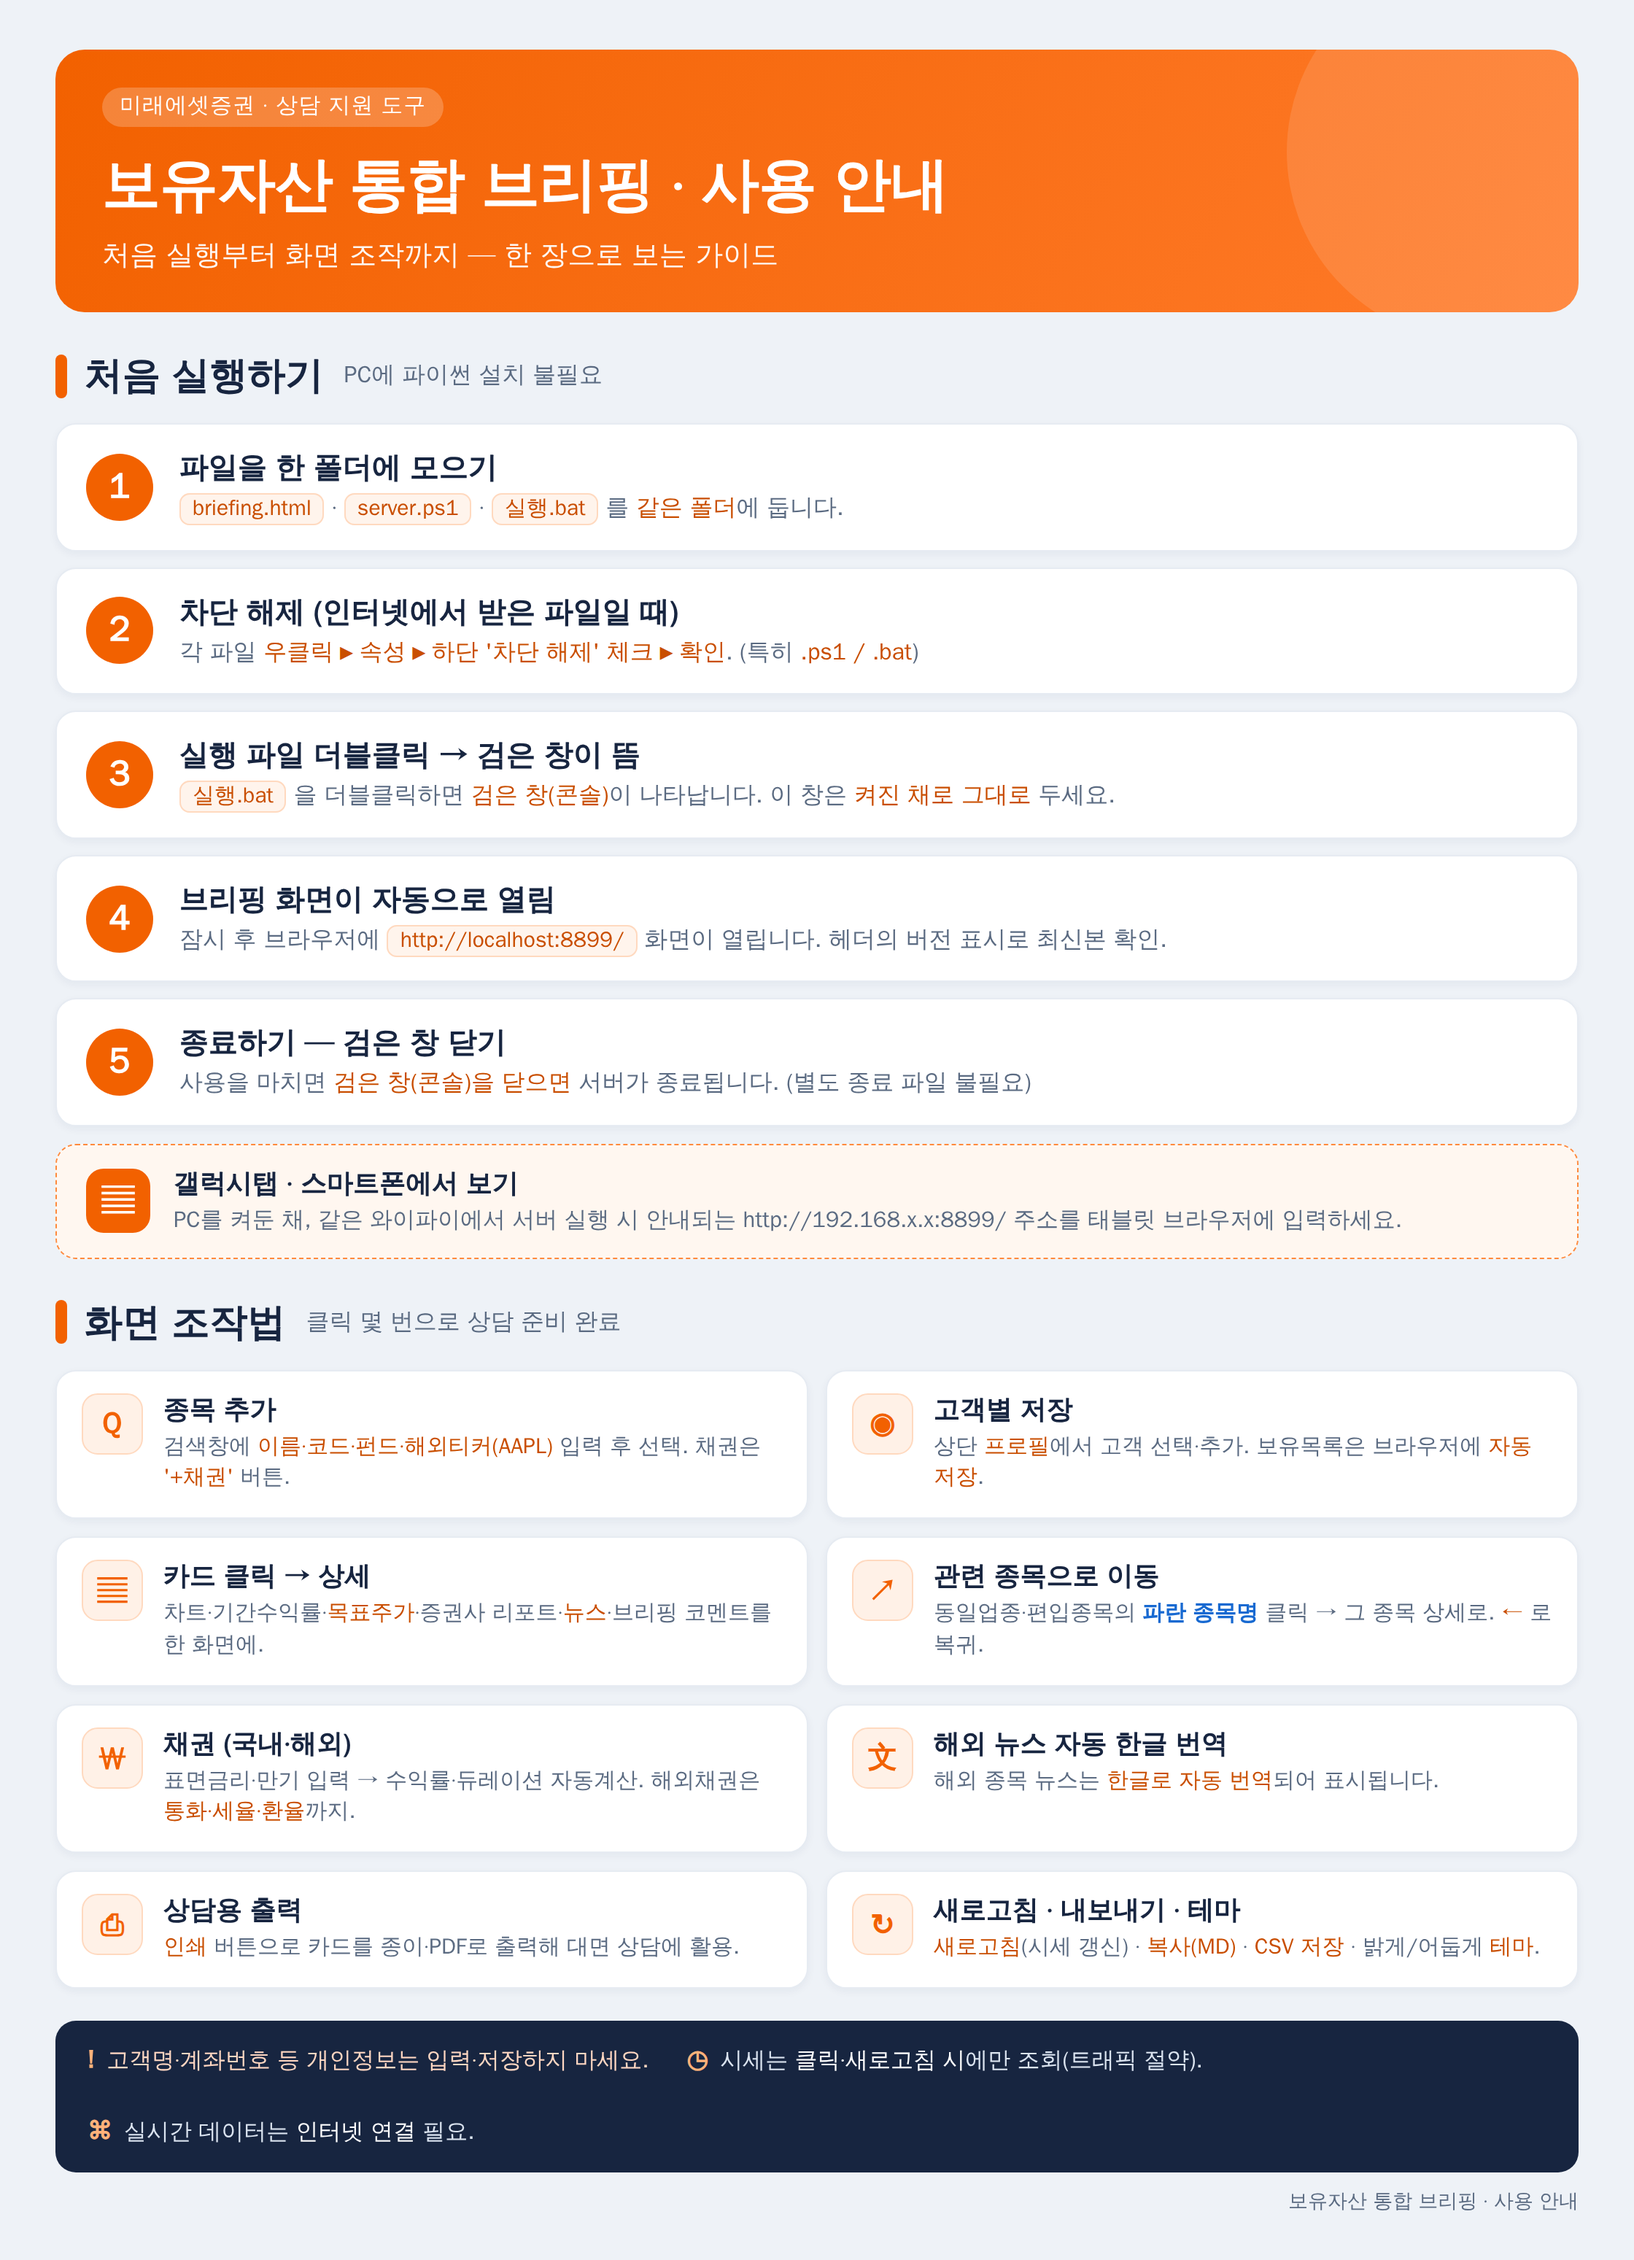
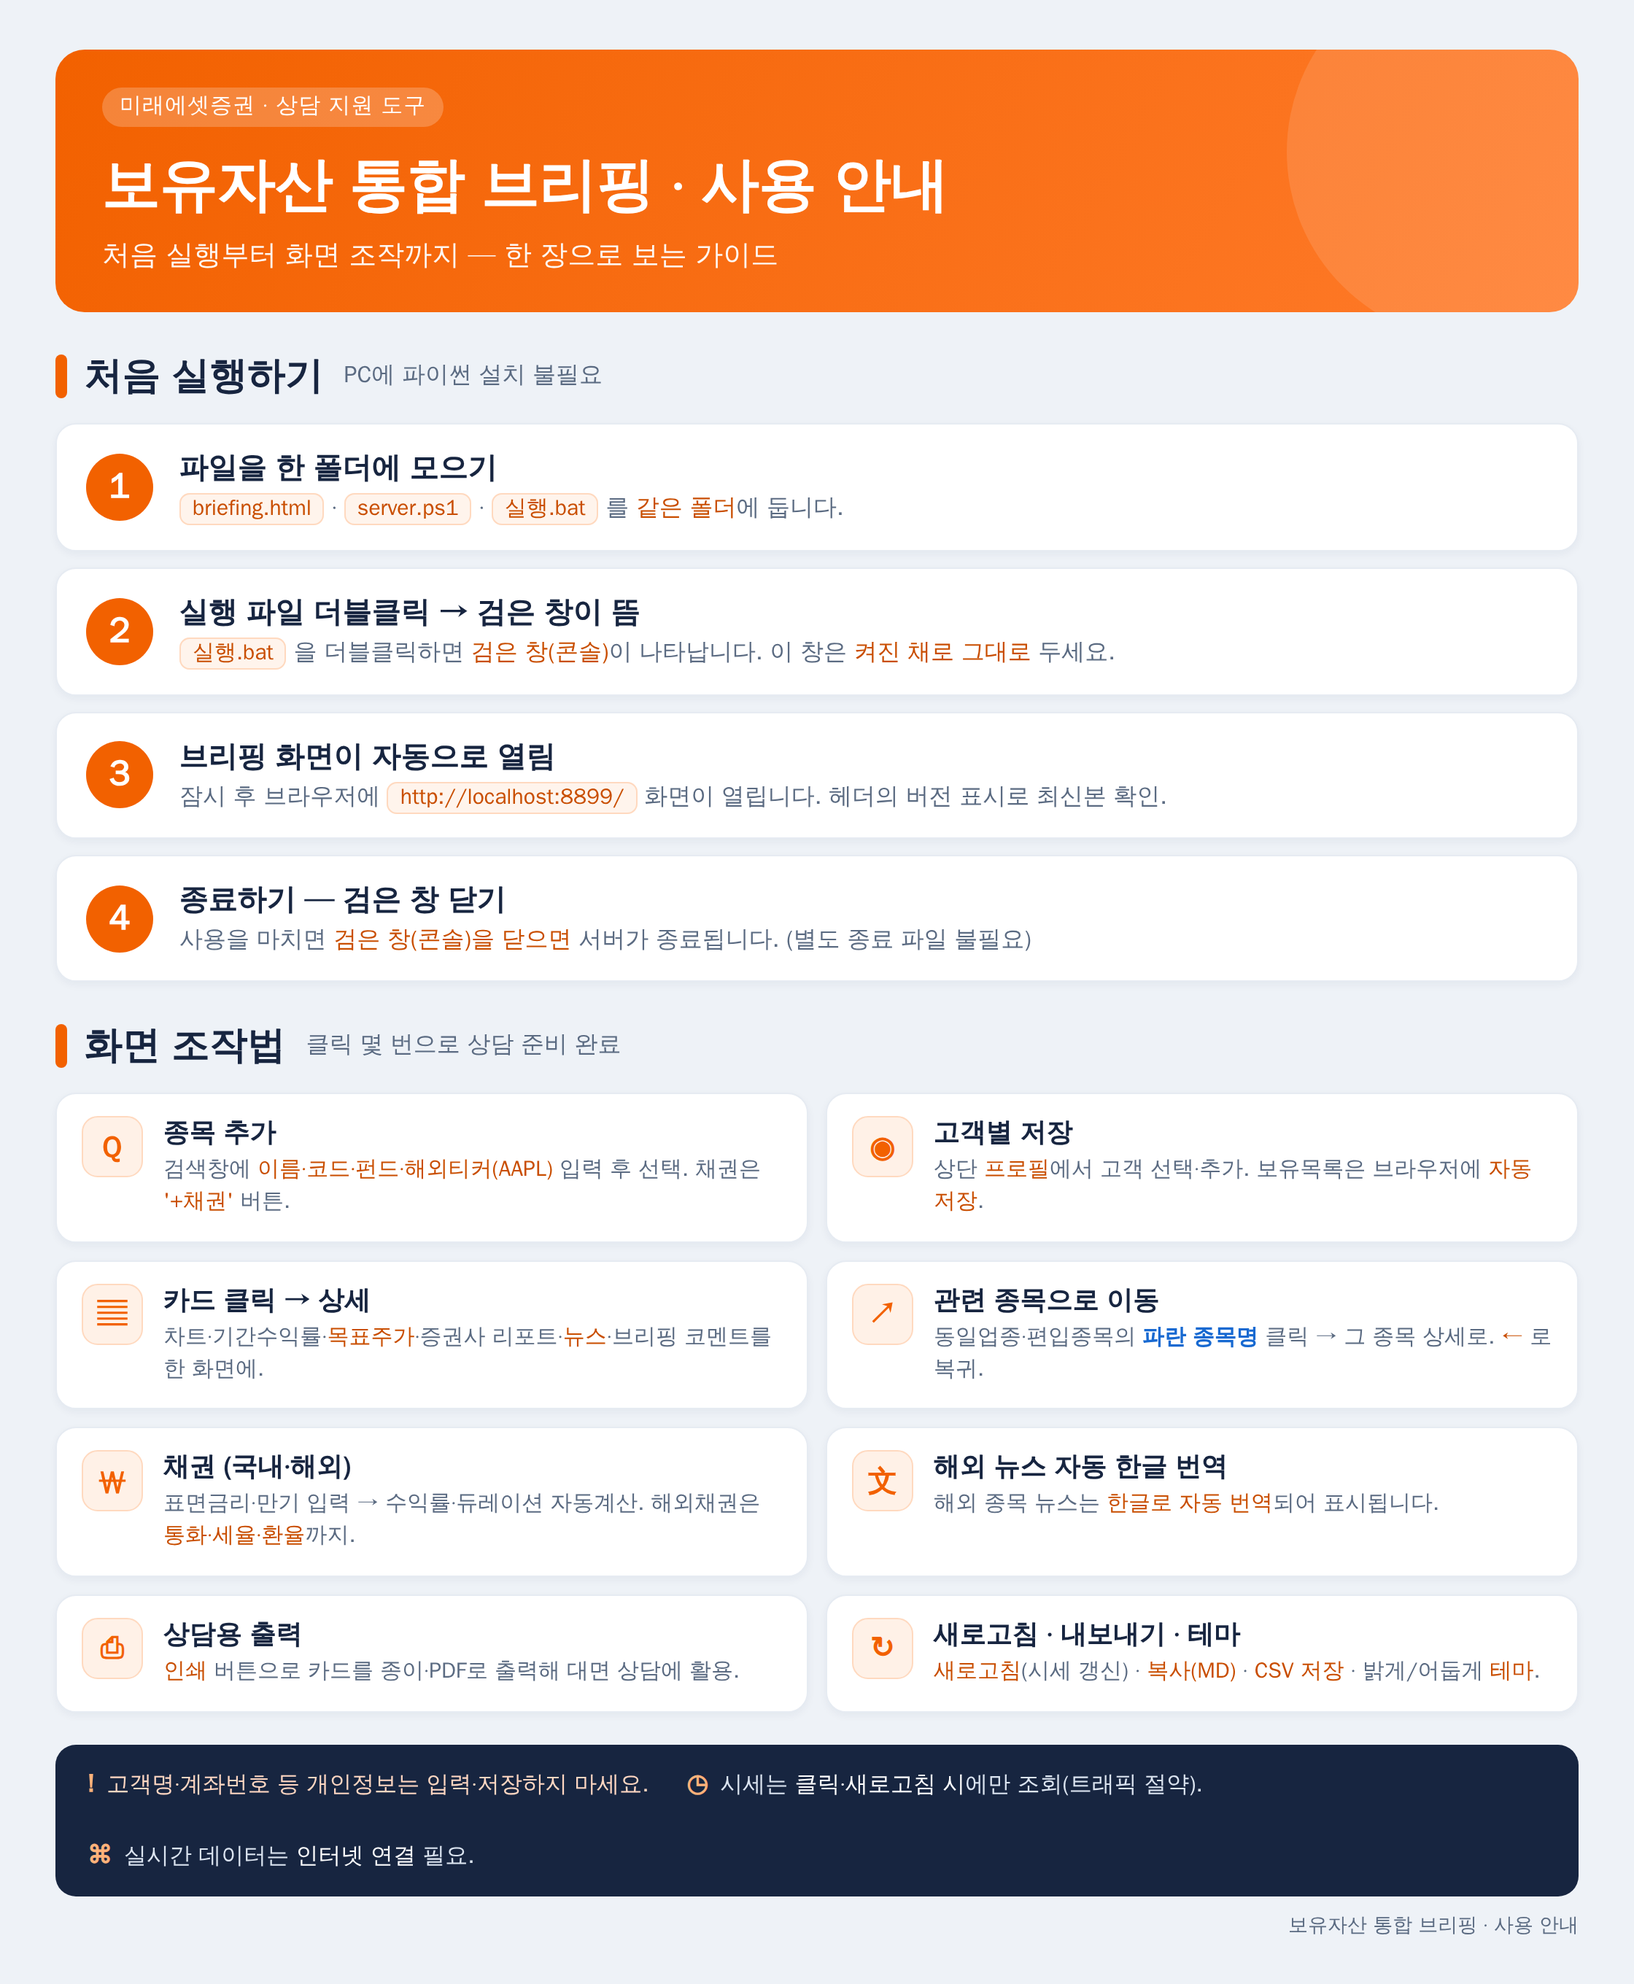
사용 안내 이미지: 차단해제 단계·태블릿 안내 삭제, 실행 4단계로 정리

Changed region(s): [[0.0312, 0.0, 0.9688, 1.0]]

diff --git a/사용안내_원본.html b/사용안내_원본.html
@@ -62,26 +62,18 @@
         <div class="sd"><span class="code">briefing.html</span> · <span class="code">server.ps1</span> · <span class="code">실행.bat</span> 를 <b>같은 폴더</b>에 둡니다.</div>
       </div></div>
       <div class="step"><div class="num">2</div><div class="body">
-        <div class="st">차단 해제 (인터넷에서 받은 파일일 때)</div>
-        <div class="sd">각 파일 <b>우클릭 ▸ 속성 ▸ 하단 '차단 해제' 체크 ▸ 확인</b>. (특히 <b>.ps1 / .bat</b>)</div>
-      </div></div>
-      <div class="step"><div class="num">3</div><div class="body">
         <div class="st">실행 파일 더블클릭 → 검은 창이 뜸</div>
         <div class="sd"><span class="code">실행.bat</span> 을 더블클릭하면 <b>검은 창(콘솔)</b>이 나타납니다. 이 창은 <b>켜진 채로 그대로</b> 두세요.</div>
       </div></div>
-      <div class="step"><div class="num">4</div><div class="body">
+      <div class="step"><div class="num">3</div><div class="body">
         <div class="st">브리핑 화면이 자동으로 열림</div>
         <div class="sd">잠시 후 브라우저에 <span class="code">http://localhost:8899/</span> 화면이 열립니다. 헤더의 버전 표시로 최신본 확인.</div>
       </div></div>
-      <div class="step"><div class="num">5</div><div class="body">
+      <div class="step"><div class="num">4</div><div class="body">
         <div class="st">종료하기 — 검은 창 닫기</div>
         <div class="sd">사용을 마치면 <b>검은 창(콘솔)을 닫으면</b> 서버가 종료됩니다. (별도 종료 파일 불필요)</div>
       </div></div>
     </div>
-    <div class="tab"><div class="ic">▤</div><div>
-      <div class="tt">갤럭시탭 · 스마트폰에서 보기</div>
-      <div class="td">PC를 켜둔 채, 같은 와이파이에서 서버 실행 시 안내되는 <b>http://192.168.x.x:8899/</b> 주소를 태블릿 브라우저에 입력하세요.</div>
-    </div></div>
   </div>
 
   <div class="sec">
